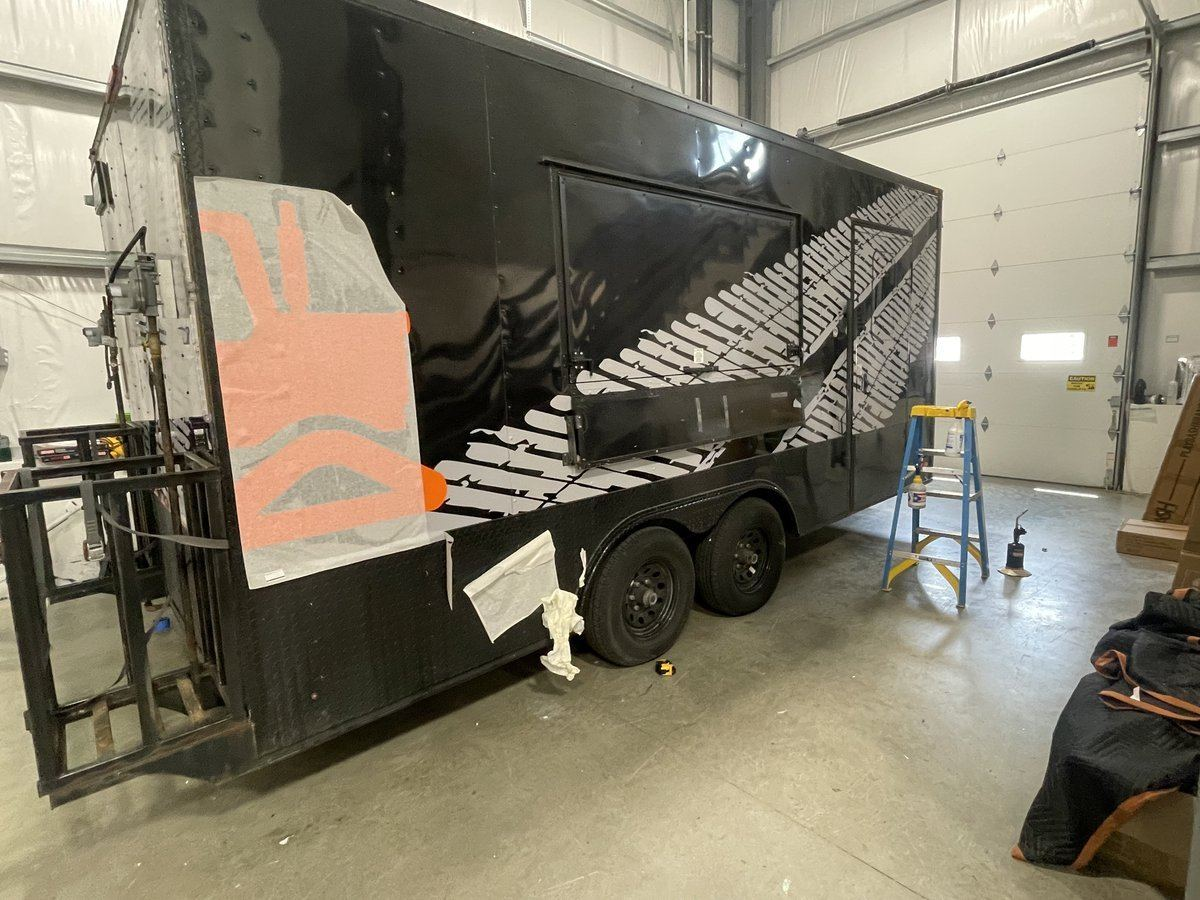
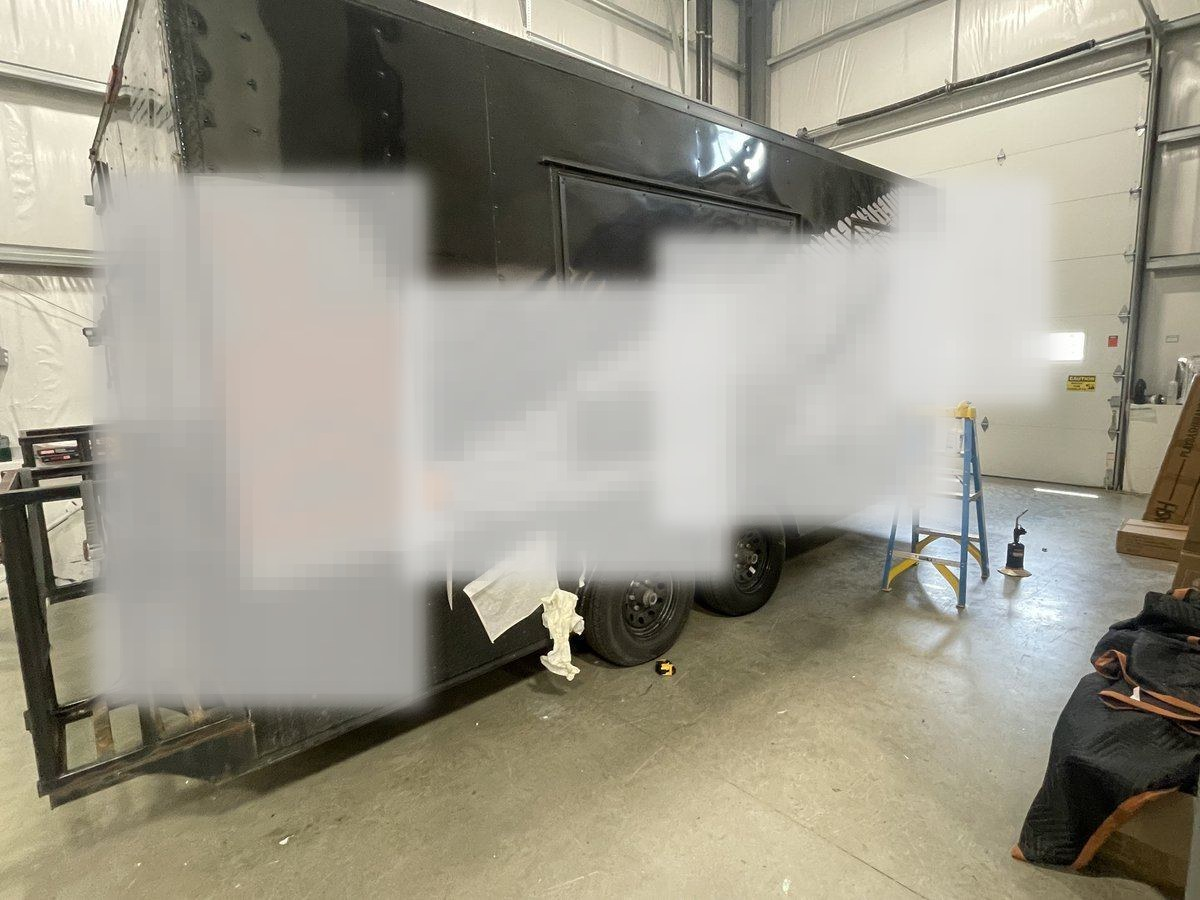
Trainer 2.7.3: blur Unplugged word mark on trailer Photos cards
Cover Unplugged on trailer-spot-graphics.jpg (and sales trailer-rivets
alias). Retitle/recaption without naming the brand. Bump ?v=273 and SW
wrap911-trainer-2.7.3. Stripe/unlock unchanged.

diff --git a/trainer/js/data.js b/trainer/js/data.js
@@ -698,23 +698,23 @@ window.WRAP911_DATA = {
     },
         {
       id: "pl21",
-      title: "Black enclosed trailer — white slash down, nose still taped",
+      title: "Black enclosed trailer — side graphic down, nose still taped",
       image: "media/photos/gallery/trailer-spot-graphics.jpg",
       module: "post-heat",
       jobType: "Vehicles",
-      visual: "Black dual-axle enclosed trailer in the shop. A white slash graphic is already on the side, across the door and the rear panel. On the nose, a salmon panel is still under grey transfer tape, held with orange tape. Diamond plate runs the lower rail. A blue and yellow step ladder, a spray bottle, and a propane torch stand on the concrete. Liner scraps are on the floor. This is not a pickup.",
-      narration: "This is the trailer, and it is not the bottle-print pickup. The white graphic already on the side is a slash pattern across the door and the rear panel. It is seated. The salmon piece on the nose is the one still in transfer tape, hinged with orange tape. That is a dry-fit, not a finished panel.\n\nRegister the salmon panel to the trailer before you pull the liner. Squeegee it, then pull the tape low and slow. The torch on the floor is for after the panel is down, and only at the film TDS. Do not invent a temperature, and do not heat the tape while you are still sliding the graphic.\n\nSmall fastener heads are visible on the black skin. This wide shot does not show tented rivets, so do not teach a rivet-tent close-up from it. Ladder stays on the concrete until you need the upper edge.",
+      visual: "Black dual-axle enclosed trailer in the shop. A white side graphic is already on the side, across the door and the rear panel. On the nose, a printed panel is still under grey transfer tape, held with orange tape. Diamond plate runs the lower rail. A blue and yellow step ladder, a spray bottle, and a propane torch stand on the concrete. Liner scraps are on the floor. This is not a pickup.",
+      narration: "This is the trailer, and it is not the bottle-print pickup. The white side graphic on the side is already down across the door and the rear panel. It is seated. The nose piece is still in transfer tape, hinged with orange tape. That is a dry-fit, not a finished panel.\n\nRegister the nose panel to the trailer before you pull the liner. Squeegee it, then pull the tape low and slow. The torch on the floor is for after the panel is down, and only at the film TDS. Do not invent a temperature, and do not heat the tape while you are still sliding the graphic.\n\nSmall fastener heads are visible on the black skin. This wide shot does not show tented rivets, so do not teach a rivet-tent close-up from it. Ladder stays on the concrete until you need the upper edge.",
       checklist: [
         "Call it a black enclosed trailer, not a pickup",
-        "White slash graphic is already down on the side",
-        "Salmon nose panel is still under transfer tape",
-        "Register that panel before pulling the liner",
+        "White side graphic is already down",
+        "Nose panel is still under transfer tape",
+        "Register the nose panel before pulling the liner",
         "Pull tape low and slow after the squeegee pass",
         "Leave the torch down until alignment is locked; heat only per TDS",
       ],
       quiz: {
         q: "Which graphic is finished, and which is still under tape?",
-        correct: "The white slash on the side is down. The salmon panel on the nose is still under transfer tape.",
+        correct: "The white side graphic is down. The nose panel is still under transfer tape.",
         wrong: "A white tire-tread graphic on a pickup, with an orange bottle print already glassed."
       }
     },
@@ -917,13 +917,13 @@ window.WRAP911_DATA.drills = {
     },
     {
       id: "cl03",
-      title: "Trailer nose graphic",
-      subtitle: "White slash is down, salmon panel still taped",
+      title: "Trailer nose panel hang",
+      subtitle: "Side graphic is down, nose panel still taped",
       image: "media/photos/gallery/trailer-spot-graphics.jpg",
       intro: "Tap the sequence IN ORDER for this black enclosed trailer.",
       steps: [
-        "Confirm the white slash on the side is already down",
-        "Register the salmon nose panel while it is still under tape",
+        "Confirm the white side graphic is already down",
+        "Register the nose panel while it is still under tape",
         "Squeegee, then pull the tape low and slow",
         "Only then use heat, and only per the film TDS"
       ],

diff --git a/trainer/index.html b/trainer/index.html
@@ -25,10 +25,10 @@
   <link rel="apple-touch-icon" href="icons/apple-touch-icon.png">
   <link rel="icon" type="image/png" href="icons/icon-192.png">
   <title>WRAP 911 Trainer</title>
-  <link rel="stylesheet" href="css/style.css?v=272">
-  <link rel="stylesheet" href="css/theme-dark.css?v=272">
+  <link rel="stylesheet" href="css/style.css?v=273">
+  <link rel="stylesheet" href="css/theme-dark.css?v=273">
   <!-- 2.6.2 perf: app-core.js is injected later by app.js; preload so it downloads in parallel -->
-  <link rel="preload" href="js/app-core.js?v=272" as="script">
+  <link rel="preload" href="js/app-core.js?v=273" as="script">
   <style>
     .passion-note { margin: 0 0 0.9rem; padding: 0.75rem 0.85rem; border-radius: 12px; background: rgba(255,176,0,.08); box-shadow: inset 3px 0 0 #ffb000; }
     .passion-note strong { display: block; letter-spacing: .08em; text-transform: uppercase; color: #ffb000; font-size: 0.78rem; margin-bottom: 0.35rem; }
@@ -251,24 +251,24 @@
       /* Service worker is registered once, in js/app-core.js. */
     })();
   </script>
-  <script src="js/config.js?v=272"></script>
-  <script src="js/plan-fix.js?v=272"></script>
-  <script src="js/ios-license-bridge.js?v=272"></script>
-  <script src="js/data.js?v=272"></script>
-  <script src="js/data_extra.js?v=272"></script>
-  <script src="js/problems-db.js?v=272"></script>
-  <script src="js/labels-fix.js?v=272"></script>
-  <script src="js/app_extra.js?v=272"></script>
-  <script src="js/problem-upload.js?v=272"></script>
-  <script src="js/coach.js?v=272"></script>
-  <script src="js/app.js?v=272"></script>
-  <script src="js/video-fix.js?v=272"></script>
-  <script src="js/license-gate.js?v=272"></script>
-  <script src="js/captions-fix.js?v=272"></script>
-  <script src="js/jobs-trim.js?v=272"></script>
-  <script src="js/photos-unique.js?v=272"></script>
-  <script src="js/practice-fix.js?v=272"></script>
-  <script src="js/about.js?v=272"></script>
-  <script src="js/games.js?v=272"></script>
+  <script src="js/config.js?v=273"></script>
+  <script src="js/plan-fix.js?v=273"></script>
+  <script src="js/ios-license-bridge.js?v=273"></script>
+  <script src="js/data.js?v=273"></script>
+  <script src="js/data_extra.js?v=273"></script>
+  <script src="js/problems-db.js?v=273"></script>
+  <script src="js/labels-fix.js?v=273"></script>
+  <script src="js/app_extra.js?v=273"></script>
+  <script src="js/problem-upload.js?v=273"></script>
+  <script src="js/coach.js?v=273"></script>
+  <script src="js/app.js?v=273"></script>
+  <script src="js/video-fix.js?v=273"></script>
+  <script src="js/license-gate.js?v=273"></script>
+  <script src="js/captions-fix.js?v=273"></script>
+  <script src="js/jobs-trim.js?v=273"></script>
+  <script src="js/photos-unique.js?v=273"></script>
+  <script src="js/practice-fix.js?v=273"></script>
+  <script src="js/about.js?v=273"></script>
+  <script src="js/games.js?v=273"></script>
 </body>
 </html>

diff --git a/trainer/js/captions-fix.js b/trainer/js/captions-fix.js
@@ -223,13 +223,13 @@
       wrong: "A propane torch heating rivets."
     },
     "trailer-spot-graphics.jpg": {
-      title: "Black trailer, nose still taped",
+      title: "Black trailer — nose panel still taped",
       jobType: "Vehicles",
-      visual: "Black dual-axle enclosed trailer in the shop. A white slash graphic is already on the side, across the door and the rear panel. On the nose, a salmon panel is still under grey transfer tape with orange tape tabs. Diamond plate runs the lower rail. A blue and yellow step ladder, a spray bottle, and a propane torch stand on the concrete. White liner scraps are on the floor.",
-      narration: "This is the black trailer. The white slash graphic on the side is already down. The salmon piece on the nose is still under transfer tape. That is a dry-fit, not a finished panel. The torch and the ladder are on the floor.\n\nRegister the salmon panel before you pull the liner. Pull the tape low and slow after the film is squeegeed. This wide shot does not show a rivet-tent close-up.",
-      check: ["Name the black enclosed trailer", "See the white slash already on the side", "See the salmon nose still under transfer tape", "Leave the torch on the floor until the panel is down"],
+      visual: "Black dual-axle enclosed trailer in the shop. A white side graphic is already on the side, across the door and the rear panel. On the nose, a printed panel is still under grey transfer tape with orange tape tabs. Diamond plate runs the lower rail. A blue and yellow step ladder, a spray bottle, and a propane torch stand on the concrete. White liner scraps are on the floor.",
+      narration: "This is the black trailer. The white side graphic on the side is already down. The nose piece is still under transfer tape. That is a dry-fit, not a finished panel. The torch and the ladder are on the floor.\n\nRegister the nose panel before you pull the liner. Pull the tape low and slow after the film is squeegeed. This wide shot does not show a rivet-tent close-up.",
+      check: ["Name the black enclosed trailer", "See the white side graphic already down", "See the nose panel still under transfer tape", "Leave the torch on the floor until the panel is down"],
       q: "Which graphic is finished, and which is still taped?",
-      correct: "The white slash on the side is down. The salmon nose panel is still under transfer tape.",
+      correct: "The white side graphic is down. The nose panel is still under transfer tape.",
       wrong: "A bottle-print pickup with the liner hanging off the doors."
     },
     "trailer-rivets.jpg": null,

diff --git a/trainer/js/photos-boost.js b/trainer/js/photos-boost.js
@@ -86,11 +86,11 @@
       narration:"Cutouts first in the layout. Relief around openings. Do not stretch art across a hole.",
       checklist:["Mark every cutout","Relief around openings","Keep art square","Trim after the face is glassed"],
       quiz:{q:"Printed kiosk with a hole. Rule?",correct:"Layout the hole first. Do not stretch art across it.",wrong:"Stretch the print over the hole and cut later."} },
-    { id:"pb-spot", title:"Trailer spot graphic at the hinge", image:"media/photos/gallery/trailer-spot-graphics.jpg", module:"post-heat", jobType:"Trailer",
-      visual:"Spot graphic under tape at a hinge.",
-      narration:"Tape off low and slow. Trim the hinge after the tape is gone.",
-      checklist:["Squeegee tape down","Pull 180 degrees","Stop if a corner lifts","Trim hinge last"],
-      quiz:{q:"When do you trim the hinge?",correct:"After the transfer tape is off.",wrong:"Before you pull tape, so the hinge is free."} },
+    { id:"pb-spot", title:"Trailer nose panel still under tape", image:"media/photos/gallery/trailer-spot-graphics.jpg", module:"post-heat", jobType:"Trailer",
+      visual:"Black trailer nose. Printed panel still under grey transfer tape with orange hinge tabs. White side graphic already down.",
+      narration:"Nose panel is still taped — dry-fit, not finished. Register it, squeegee, then pull tape low and slow. Trim edges after the tape is gone.",
+      checklist:["Register the nose panel under tape","Squeegee the panel","Pull tape low and slow","Trim edges after tape is off"],
+      quiz:{q:"When do you trim the taped nose panel?",correct:"After the transfer tape is off.",wrong:"Before you pull tape, so the hinge is free."} },
     { id:"pb-gate", title:"Work van — rear gate wrap", image:"media/videos/van/rear-vehicle-gate-wrap.jpg", module:"squeegee", jobType:"Work van",
       visual:"Rear gate mid-wrap.",
       narration:"Gates have recesses and badges. Glass the flat, relief the handle, do not bridge the latch pocket.",

diff --git a/trainer/js/data_extra.js b/trainer/js/data_extra.js
@@ -3427,7 +3427,7 @@ window.WRAP911_DATA.PHOTO_GALLERY = [
   { id: "pg18", title: "Front bumper wrap", src: "media/photos/gallery/front-bumper-wrap.jpg", category: "Fleet", driveId: "1LXKPxgPCquWKbYZXlQFBrfL9Kn7Fbryy", photoLessonId: "pl18" },
   { id: "pg19", title: "Pink caddy bumper close-up", src: "media/photos/gallery/pink-caddy-bumper-close-up.jpg", category: "Fleet", driveId: "15_Rj2xH_QllC30ixdFQQcRVUOuQcUKNP", photoLessonId: "pl19" },
   { id: "pg20", title: "Front bumper wrap caddy", src: "media/photos/gallery/front-bumper-wrap-caddy.jpg", category: "Fleet", driveId: "12eOxYGaNrxoGOITdr9j8D5qBuxTqG-iS", photoLessonId: "pl20" },
-  { id: "pg21", title: "Trailer spot graphics", src: "media/photos/gallery/trailer-spot-graphics.jpg", category: "Trailer", driveId: "1omAzjz3VPoOSu7rAGxBrry0zofUDUvpK", photoLessonId: "pl21" },
+  { id: "pg21", title: "Black trailer — nose panel hang", src: "media/photos/gallery/trailer-spot-graphics.jpg", category: "Trailer", driveId: "1omAzjz3VPoOSu7rAGxBrry0zofUDUvpK", photoLessonId: "pl21" },
   { id: "pg22", title: "Kiosk box", src: "media/photos/gallery/kiosk-box.jpg", category: "Storefront/Architectural", driveId: "1O7xfBZTJ82bZQlILBQlr_wzxnLkWUisA", photoLessonId: "pl22" }
 ];
 

diff --git a/trainer/js/license-gate.js b/trainer/js/license-gate.js
@@ -124,8 +124,8 @@
     if (mediaAsked) return;
     mediaAsked = true;
     var srcs = [];
-    if (!window.WRAP911_PACK) srcs.push("js/photos-pack.js?v=272");
-    if (!window.WRAP911_BOOST) srcs.push("js/photos-boost.js?v=272");
+    if (!window.WRAP911_PACK) srcs.push("js/photos-pack.js?v=273");
+    if (!window.WRAP911_BOOST) srcs.push("js/photos-boost.js?v=273");
     var left = srcs.length;
     if (!left) { afterMedia(); return; }
     function done() { if (--left === 0) afterMedia(); }

diff --git a/trainer/sw.js b/trainer/sw.js
@@ -1,5 +1,5 @@
 /* WRAP 911 Trainer — offline shell cache; media/videos stay network (no cache) */
-var CACHE = "wrap911-trainer-2.7.2";
+var CACHE = "wrap911-trainer-2.7.3";
 var IMG_CACHE = "wrap911-img-v1"; /* photos the user already opened; videos are never cached */
 /* Precached without ?v=. Fetch fallbacks use ignoreSearch so ?v= script URLs still match offline. */
 var ASSETS = [

diff --git a/trainer/js/config.js b/trainer/js/config.js
@@ -11,7 +11,7 @@ window.WRAP911_CONFIG = {
   contactName: "Gerry",
   contactEmail: "Djavoo1975@icloud.com", /* same address as the live sales page footer */
   brands: ["3M", "Avery Dennison", "Arlon"],
-  version: "2.7.2",
+  version: "2.7.3",
   defaultSku: "W911-PACK",
   proPriceUsd: 149,
   proPriceLabel: "W911-PACK $149",

diff --git a/trainer/js/app.js b/trainer/js/app.js
@@ -37,7 +37,7 @@
 
   function loadLocal() {
     var s = document.createElement("script");
-    s.src = "js/app-core.js?v=272";
+    s.src = "js/app-core.js?v=273";
     s.onload = function () { after(); setTimeout(after, 200); };
     s.onerror = function () {
       var key = "wrap911_core_retry";
